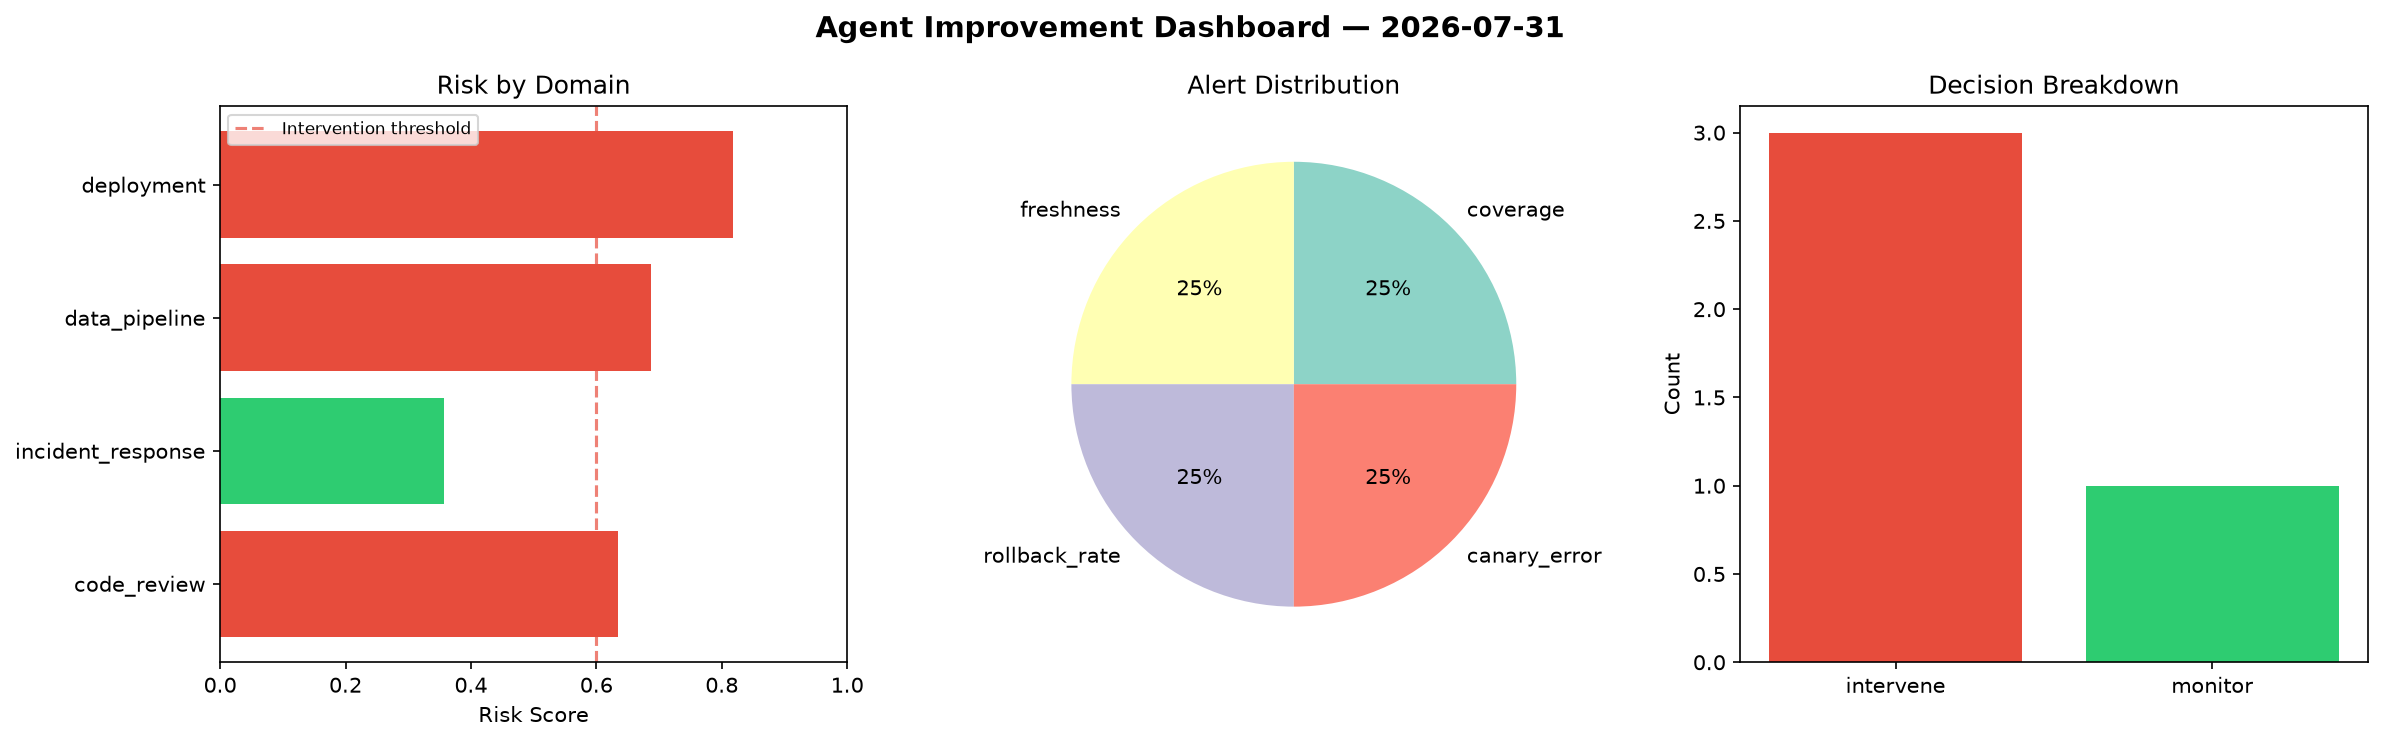
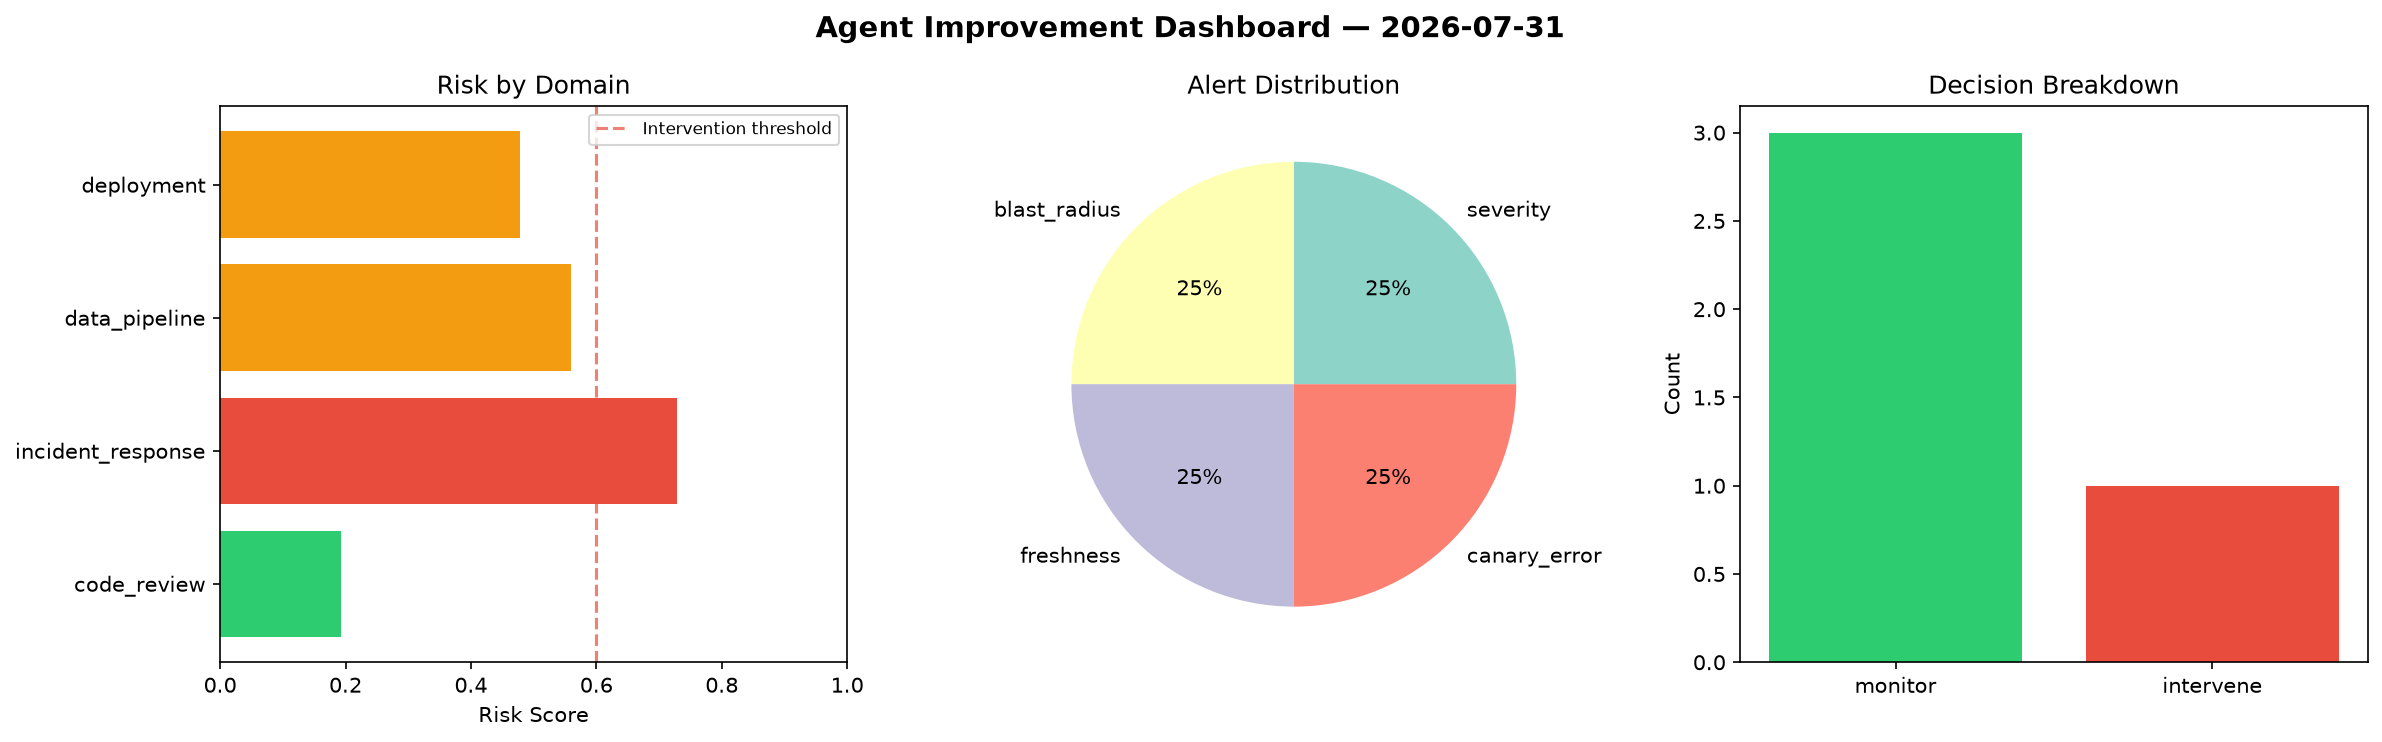
agent-improvement: daily cycle 2026-07-31T10:50

diff --git a/logs/2026-07-31.md b/logs/2026-07-31.md
@@ -1,6 +1,6 @@
 # Agent Improvement Report — 2026-07-31
 
-**Cycle ID:** `abe7c231` | **Avg Risk:** 0.6242 | **Interventions:** 3/4
+**Cycle ID:** `16d76502` | **Avg Risk:** 0.4897 | **Interventions:** 1/4
 
 ![Dashboard](2026-07-31_dashboard.png)
 
@@ -10,18 +10,18 @@
 
 | Domain | Risk Score | Decision | Alerts |
 |--------|-----------|----------|--------|
-| code_review | 0.6345 | intervene | coverage |
-| incident_response | 0.3566 | monitor | none |
-| data_pipeline | 0.6876 | intervene | freshness |
-| deployment | 0.8182 | intervene | rollback_rate, canary_error |
+| code_review | 0.1934 | monitor | none |
+| incident_response | 0.7288 | intervene | severity, blast_radius |
+| data_pipeline | 0.5589 | monitor | freshness |
+| deployment | 0.4776 | monitor | canary_error |
 
 ## Delta vs Yesterday
 
 | Domain | Today | Yesterday | Change |
 |--------|-------|-----------|--------|
-| code_review | 0.6345 | 0.7405 | 📉 -14.3% |
-| incident_response | 0.3566 | 0.3241 | 📈 10.0% |
-| data_pipeline | 0.6876 | 0.4734 | 📈 45.2% |
-| deployment | 0.8182 | 0.7293 | 📈 12.2% |
+| code_review | 0.1934 | 0.7405 | 📉 -73.9% |
+| incident_response | 0.7288 | 0.3241 | 📈 124.9% |
+| data_pipeline | 0.5589 | 0.4734 | 📈 18.1% |
+| deployment | 0.4776 | 0.7293 | 📉 -34.5% |
 
 **Refinement:** `{'adjustment': 'tighten_thresholds', 'trend': 'degrading', 'window': 4}`
